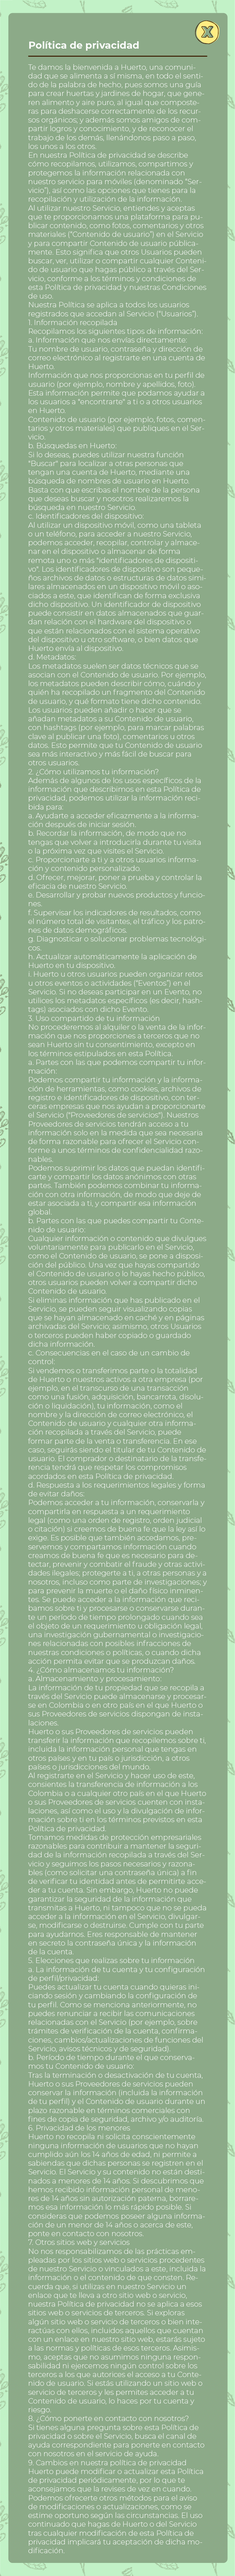
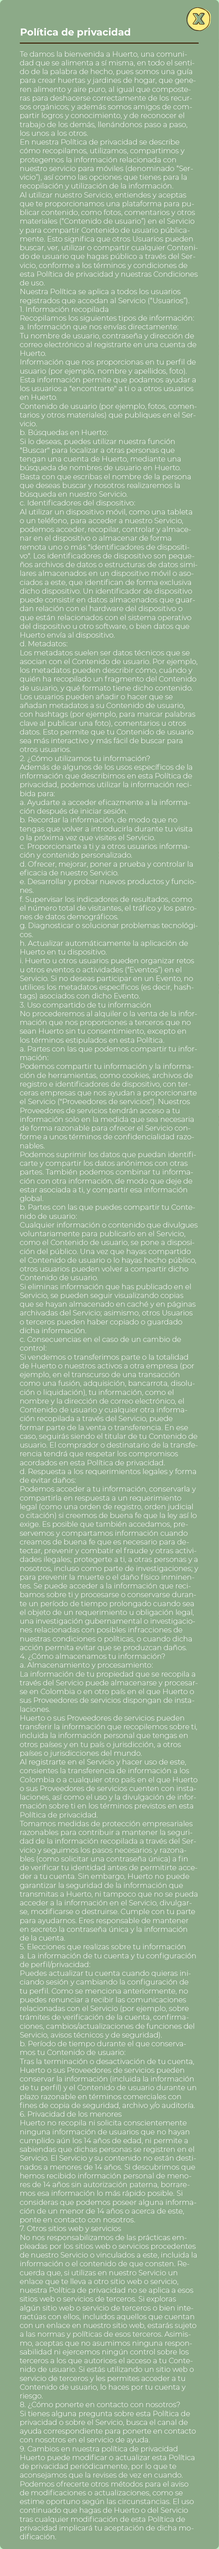
policy screen and information changed auto sizing imgs

Changed region(s): [[0.0, 0.0, 1.0, 1.0]]

diff --git a/css/stylesheet.css b/css/stylesheet.css
@@ -26,16 +26,9 @@ display: none;
     font-weight: 400;
     color : rgba(61, 32, 4, 1);
   }
-.background{
-    background : rgba(194, 242, 199, 0.60);
-    background-image : url('../img/background/patron.png');
-    background-size: cover;
-    background-repeat : no-repeat;
-    opacity : 0.3;
-    left : 0px;
-    top : 0px;
+.generalBkg{
     width: 100%;
-    filter: alpha(opacity=20) progid:DXImageTransform.Microsoft.Alpha(opacity=20) ;
+    height: 100%;
 }
 /* login*/
 .loginBkg{  
@@ -460,19 +453,37 @@ div.sharesContent{
     width: 80%;
     height: 90%;
 }
+.policy{
+    z-index: 1;
+    overflow: scroll;
+    position: absolute;
+    top: 5%;
+    left: 10%;
+    width: 80%;
+    height: 90%;
+}
 .infoImg{
     width: 100%;
-    height: 200%;
-}
-.infoBkg{
-    width: 100%;
-    height: 100%;
+    height: auto;
 }
 .backFromInfo{
     position: absolute;
     top: 1%;
     background: transparent;
-    height: 5%;
+    height: 7%;
+    border: none;
+    right: 3%;
+    width: 12%;
+}
+.policyImg{
+    width: 100%;
+    height: auto;
+}
+.backFromPolicy{
+    position: absolute;
+    top: 1%;
+    background: transparent;
+    height: 7%;
     border: none;
     right: 3%;
     width: 12%;

diff --git a/index.html b/index.html
@@ -77,11 +77,18 @@
 		<button id="homeSearch" class="homeSearch"></button>
 		<button id="homeProfile" class="homeProfile"></button>
 	</section>
-	<section id="infromation" class="show">
-		<img src="img/background/bkgImg.png" alt="information" class="infoBkg">
+	<section id="infromation" class="hide">
+		<img src="img/background/bkgImg.png" alt="information" class="generalBkg">
 		<div class="info">
-			<img src="img/background/pruebaInfo.png" alt="information" class="infoImg">
+			<img src="img/background/info.png" alt="information" class="infoImg">
 			<button id="goBackFromInfo" class="backFromInfo"></button>
+		</div>
+	</section>
+	<section id="policy" class="show">
+		<img src="img/background/bkgImg.png" alt="policy" class="generalBkg">
+		<div class="policy">
+			<img src="img/background/policy.png" alt="information" class="policyImg">
+			<button id="goBackFromInfo" class="backFromPolicy"></button>
 		</div>
 	</section>
 
